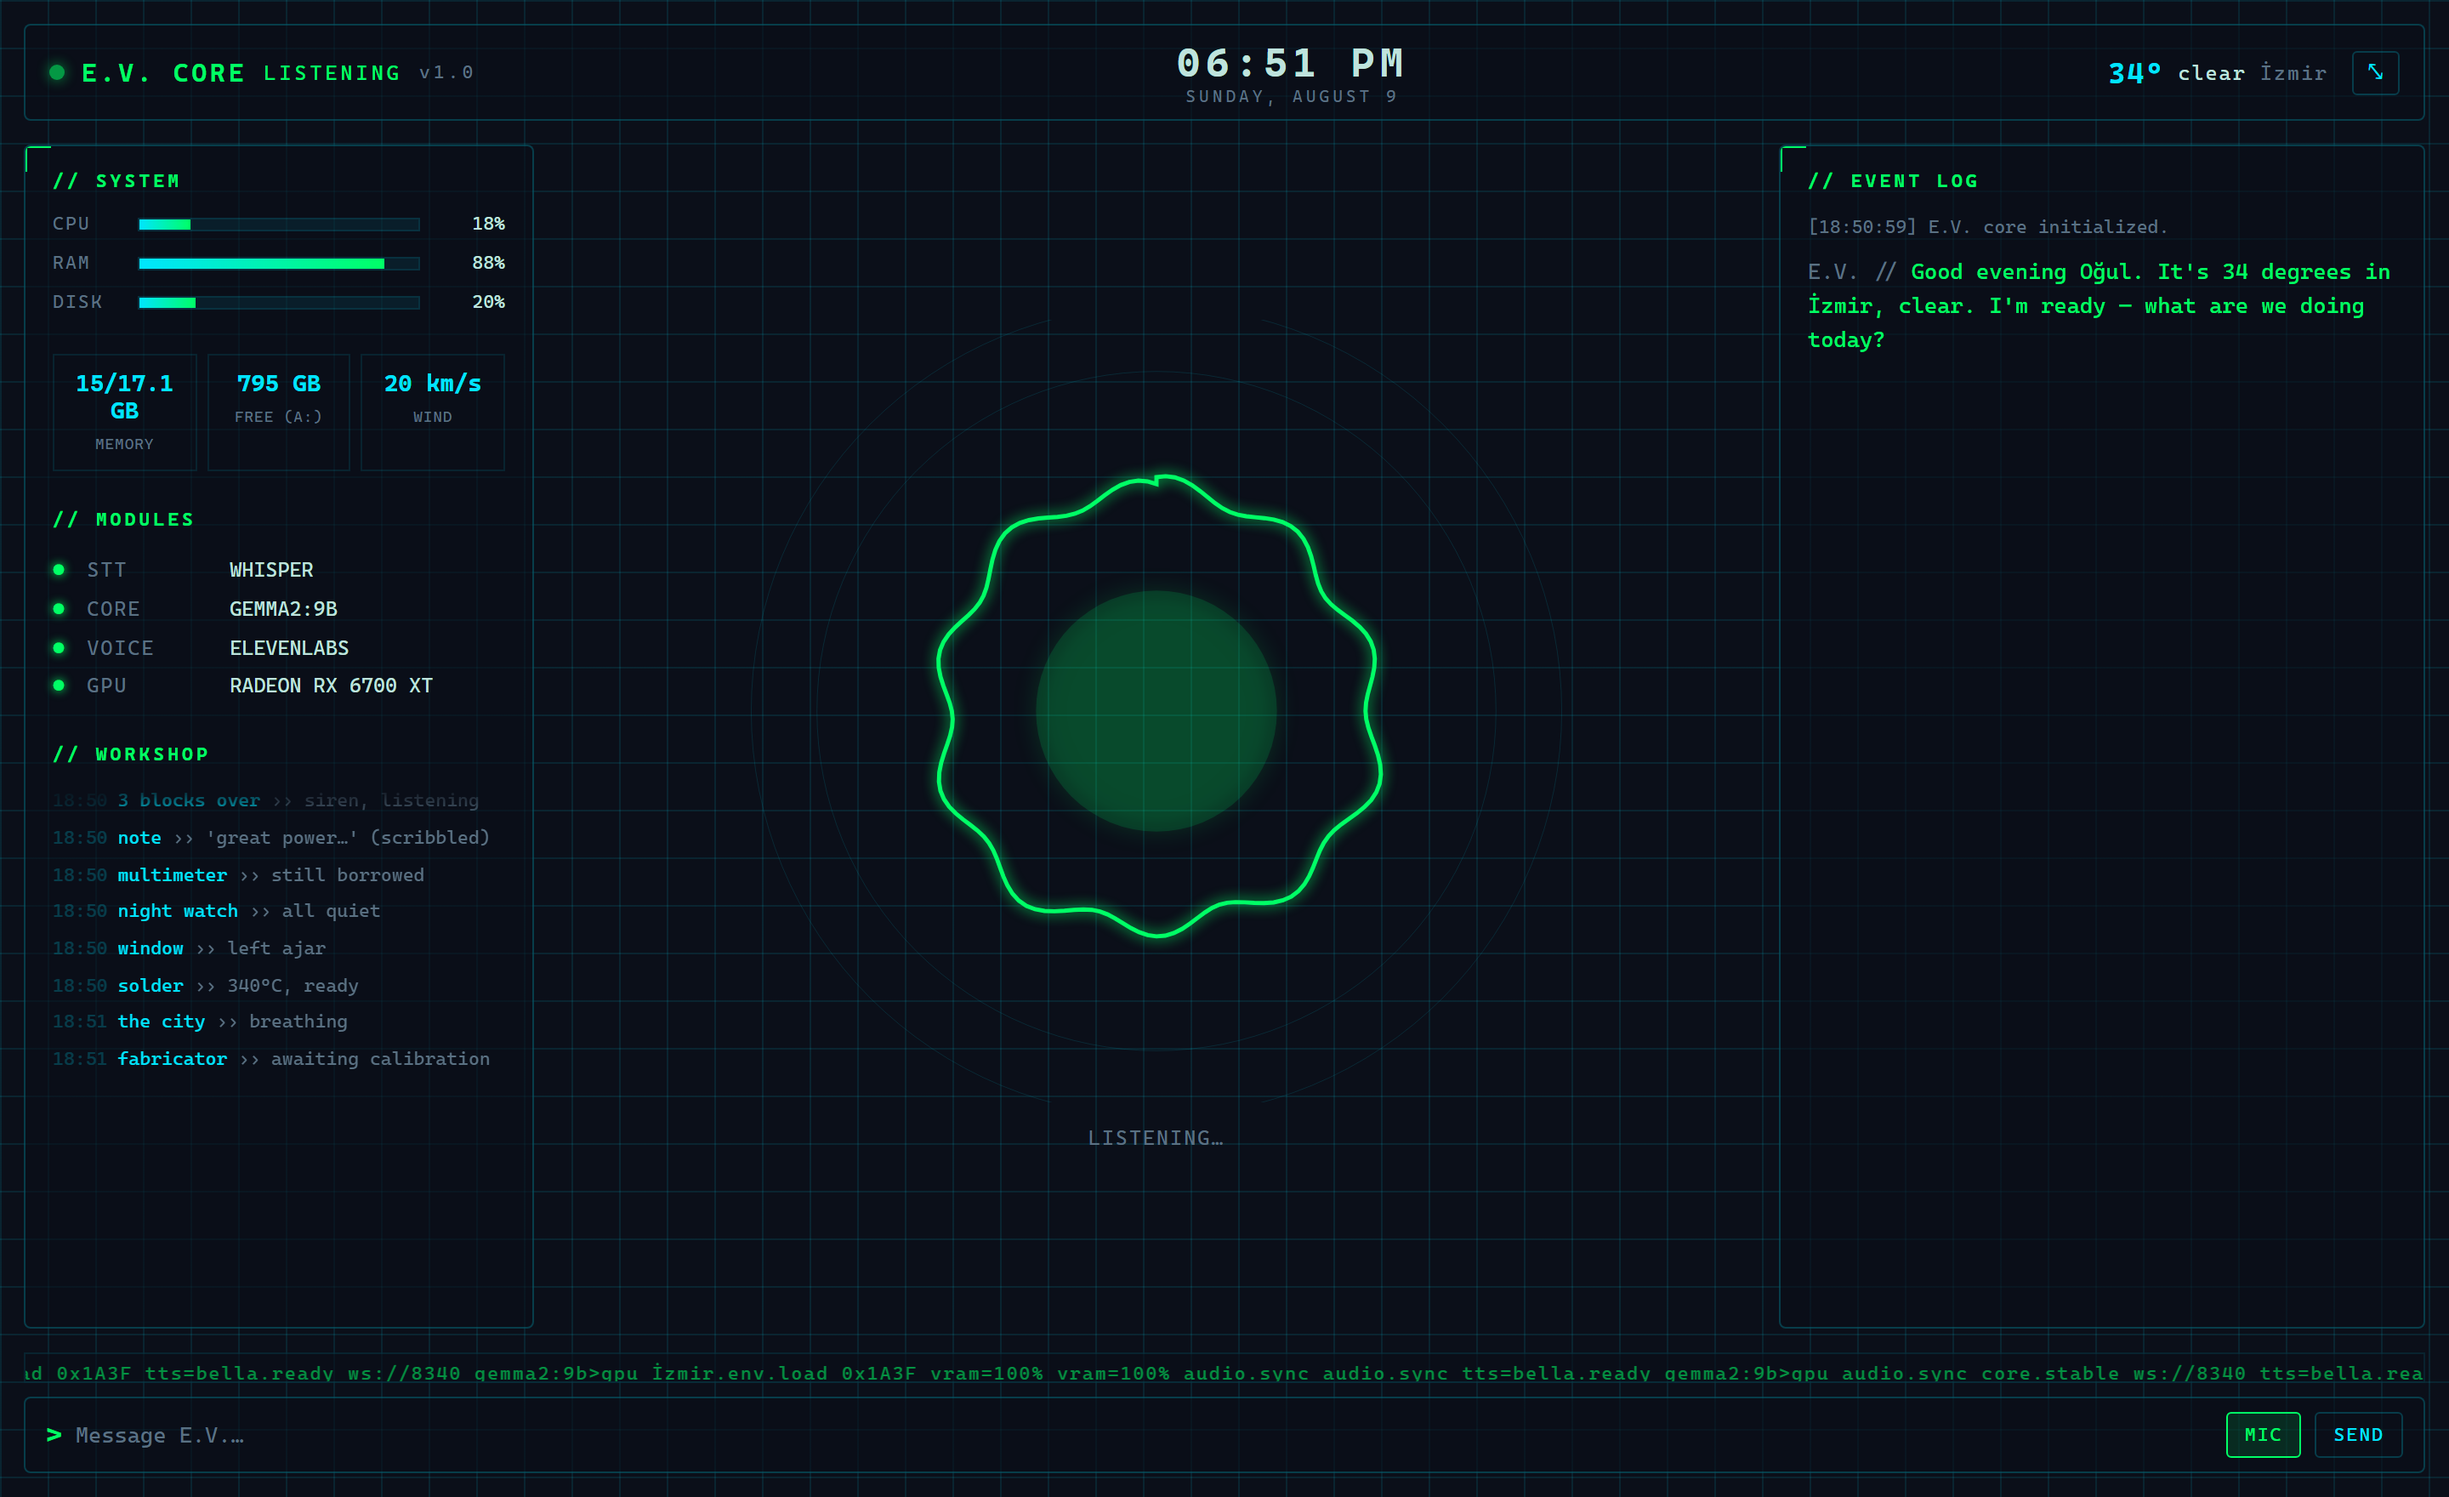
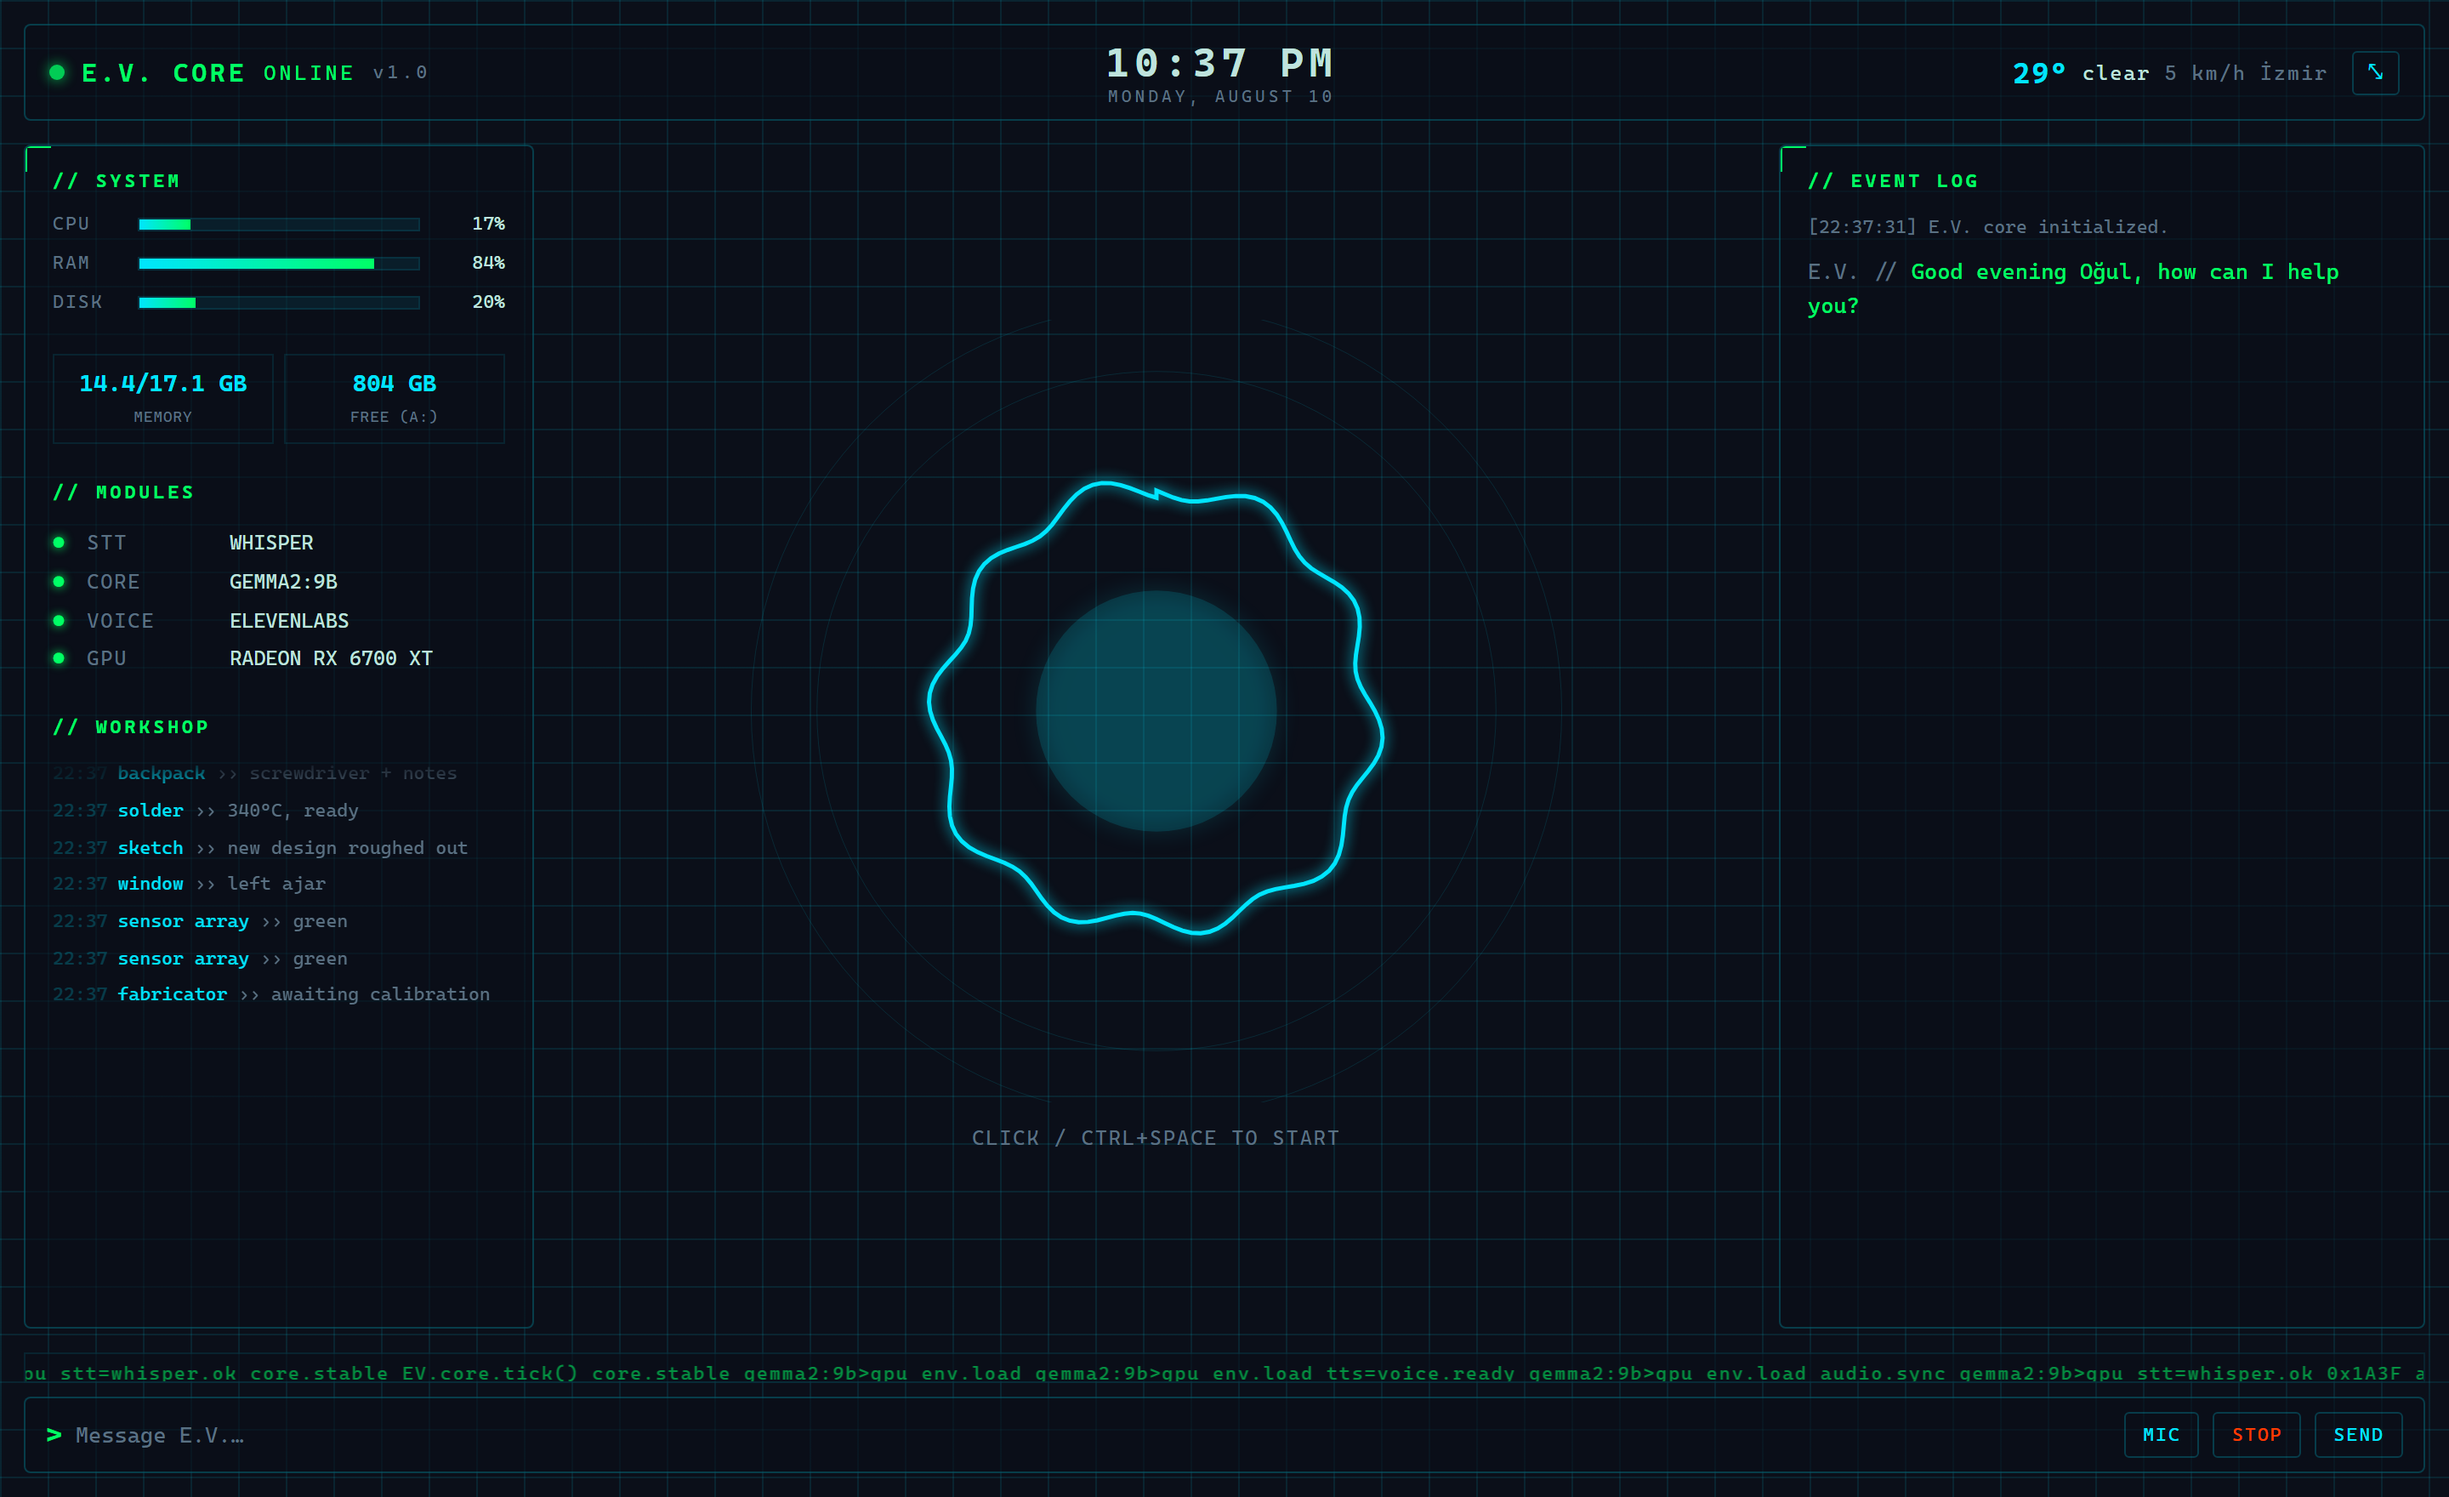
Fix English UI i18n, refresh screenshots, README TR/EN parity (v1.0.1)
Fixed
- With config language "en" (and no ?lang override), the dashboard rendered its
  chrome in Turkish: panel labels, the workshop flavor log, and the "core
  initialized" line. All three were produced at load time with the default
  language, before /stats resolved, and never re-rendered. Now:
  * applyI18n carries an English dict too and re-applies when the language
    resolves (it no longer early-returns and leaves stale Turkish),
  * the workshop flavor log re-seeds on language change,
  * the "core initialized" line is logged from pollStats once the language is
    known.

Docs
- Refreshed docs/dashboard-{en,tr}.png for the regrouped stats layout (wind in
  the weather cluster). The English shot is now fully English end to end.
- README: added the brain-benchmark and "how to use" sections to the Turkish
  half for parity; aligned the quoted gemma2:9b speed with the benchmark
  (~43 tok/s). CHANGELOG + version bumped to 1.0.1.

diff --git a/frontend/main.js b/frontend/main.js
@@ -18,20 +18,28 @@ let currentAudio = null;  // the HTMLAudio currently playing (so we can stop it)
 const _langOverride = new URLSearchParams(location.search).get('lang');
 let appLang = _langOverride === 'en' ? 'en' : 'tr';  // set from /stats; drives TTS + UI
 
-// Static UI labels. HTML is authored in English; this overlay applies when
-// appLang === 'tr' (English needs no dict since it's the default).
+// Static UI labels. The HTML is authored in English; applyI18n swaps in the
+// active language. BOTH languages carry a dict so switching is reversible — a
+// server config of "en" must undo any Turkish applied before /stats resolved.
 const I18N = {
+    en: {
+        sys: '// SYSTEM', modules: '// MODULES', workshop: '// WORKSHOP', log: '// EVENT LOG',
+        mem: 'MEMORY', core: 'CORE', voice: 'VOICE', send: 'SEND',
+        start: 'Press Ctrl+Space to start', ph: 'Message E.V.…',
+    },
     tr: {
         sys: '// SİSTEM', modules: '// MODÜLLER', workshop: '// ATÖLYE', log: '// OLAY GÜNLÜĞÜ',
-        mem: 'BELLEK', wind: 'RÜZGÂR', core: 'ÇEKİRDEK', voice: 'SES', send: 'GÖNDER',
+        mem: 'BELLEK', core: 'ÇEKİRDEK', voice: 'SES', send: 'GÖNDER',
         start: 'Başlamak için Ctrl+Space', ph: "E.V.'ye yaz…",
     },
 };
-let i18nApplied = false;
+let lastI18nLang = null;
+let _seedWorkshop = null;  // assigned by the workshop IIFE; re-seed on language change
+let _startupLogged = false;  // log "core initialized" once, after /stats resolves the language
 function applyI18n() {
     document.documentElement.lang = appLang;
-    const d = I18N[appLang];
-    if (!d) return;  // English: leave the HTML as authored
+    const d = I18N[appLang] || I18N.en;
+    lastI18nLang = appLang;
     document.querySelectorAll('[data-i18n]').forEach(el => {
         const k = el.getAttribute('data-i18n'); if (d[k]) el.textContent = d[k];
     });
@@ -430,7 +438,11 @@ async function pollStats() {
     try {
         const s = await (await fetch('/stats')).json();
         if (s.language && !_langOverride) appLang = s.language;
-        if (!i18nApplied) { applyI18n(); i18nApplied = true; }
+        if (appLang !== lastI18nLang) {  // language resolved/changed → re-render UI text
+            applyI18n();
+            if (_seedWorkshop) _seedWorkshop();  // regenerate flavor lines in the right language
+        }
+        if (!_startupLogged) { _startupLogged = true; logSys(T('started')); }
         setBar('cpu', s.cpu); setBar('ram', s.ram); setBar('disk', s.disk);
         setText('s-ram', s.ram_used_gb + '/' + s.ram_total_gb + ' GB');
         setText('s-disk', s.disk_free_gb + ' GB');
@@ -662,7 +674,8 @@ const hhmm = () => new Date().toLocaleTimeString('tr-TR', { hour: '2-digit', min
         while (box.children.length > 30) box.removeChild(box.firstChild);
         box.scrollTop = box.scrollHeight;
     }
-    for (let i = 0; i < 6; i++) append();
+    _seedWorkshop = function () { box.innerHTML = ''; for (let i = 0; i < 6; i++) append(); };
+    _seedWorkshop();
     setInterval(append, 3500);
 })();
 
@@ -726,5 +739,6 @@ setTimeout(() => { maybeThink(); setInterval(maybeThink, 45000); }, 12000);
 })();
 
 applyI18n();  // apply immediately for ?lang override; pollStats re-applies for server config
-logSys(T('started'));
+// "core initialized" is logged from pollStats once /stats resolves the language,
+// so it isn't printed in the wrong language before the server config is known.
 connect();

diff --git a/README.md b/README.md
@@ -71,7 +71,7 @@ Mic → Whisper (STT, local) → FastAPI server
 
 - **OS:** Windows 10/11 — PC control, screen capture, media keys, fullscreen auto-tray and the launcher are Windows-specific.
 - **Python** 3.10+ · **[Ollama](https://ollama.com)** (local brain) · **Node.js** (only for the Electron desktop app).
-- **GPU / VRAM:** the default `gemma2:9b` needs **~7–8 GB VRAM** (Q4) and runs fully on an **8 GB+** GPU (I'm on an RX 6700 XT 12 GB, ~37 tok/s). On a smaller card, swap in a **3B** model (`llama3.2:3b`, `qwen2.5:3b`) for **~2–4 GB**, or run **CPU-only** (slower).
+- **GPU / VRAM:** the default `gemma2:9b` needs **~7–8 GB VRAM** (Q4) and runs fully on an **8 GB+** GPU (I'm on an RX 6700 XT 12 GB, ~43 tok/s). On a smaller card, swap in a **3B** model (`llama3.2:3b`, `qwen2.5:3b`) for **~2–4 GB**, or run **CPU-only** (slower).
 - **STT & TTS add no VRAM:** Whisper runs on the **CPU**; voice is ElevenLabs/browser (not local).
 - **RAM:** 16 GB is comfortable.
 - **Free by default** — no API keys needed (Ollama + Whisper + browser voice). Claude for screen vision and ElevenLabs for a nicer voice are optional.
@@ -222,6 +222,27 @@ E.V., tamamen **kendi bilgisayarında** çalışan, gizliliğe önem veren bir s
 - Whisper **CPU'da** çalışır, ses ElevenLabs/tarayıcı — yani **ses için yerel VRAM gerekmez**.
 - **Varsayılanda ücretsiz** — anahtar gerekmez.
 
+## 🧪 Beyin karşılaştırması
+
+Deterministik router açık komutları hallettiği için LLM'in işi dardır: sohbet etmek ve bir istek gerçekten gerektirdiğinde `[ACTION:...]` etiketi üretmek. `eval/` tam olarak bunu ölçer — **action-tag doğruluğu**: router'ı atlayan 22 istemlik bir sette (SEARCH / NEWS / SCREEN istekleri + etiketsiz kalması gereken sıradan sohbet) model doğru etiketi (ya da doğru şekilde hiçbirini) ne sıklıkla üretiyor? `temperature 0` ile çalışır, yani skor tekrar-üretilebilir.
+
+| Model | Action-tag doğruluğu | Üretim | ~VRAM (Q4) |
+|---|---|---|---|
+| `gemma2:9b` (varsayılan) | %68 | ~43 tok/s | ~7–8 GB |
+| `aya-expanse:8b` | %59 | ~50 tok/s | ~5–6 GB |
+
+*RX 6700 XT (12 GB), Türkçe istemlerle ölçüldü. Doğruluk, araç-kullanım güvenilirliğidir — genel sohbet kalitesi değil. `gemma2:9b` varsayılan çünkü bu ayak izinde önde çıktı.*
+
+**Sayılarıma güvenme — kendi kartını ve modelini ölç:**
+
+```bash
+# config.json'da "ollama_model" ayarla, sonra repo kökünden:
+python eval/run_eval.py
+
+# ...ya da config'e dokunmadan birini dene:
+EV_EVAL_MODEL=qwen2.5:7b python eval/run_eval.py
+```
+
 ## 🚀 Kurulum
 
 ```bash
@@ -236,6 +257,17 @@ npm install && npm start
 
 > `config.json` içinde `user_name` alanına **kendi adını** yaz — E.V. seni bu isimle selamlar. `language`'ı `"tr"` yap.
 > Daha iyi ses için [elevenlabs.io](https://elevenlabs.io); Claude beyni için [console.anthropic.com](https://console.anthropic.com).
+
+## 🎮 Nasıl kullanılır
+
+1. Uygulamayı aç (ya da `http://localhost:8340`).
+2. Dinlemeyi başlatmak için **`Ctrl+Space`** (ya da çekirdeğe tıkla) — varsayılan sessiz.
+3. Konuş. E.V. yazıya döker, düşünür ve sesle cevap verir.
+4. Deneyebileceklerin:
+   - *"Neler yapabilirsin?"*
+   - *"Hesap makinesini aç."* · *"Chrome'u kapat."* (onay ister)
+   - *"Sesi aç."* · *"Sonraki şarkı."* · *"Ekranı kilitle."* (onay ister)
+   - *"Kahvemi sade içtiğimi hatırla."* → sonra: *"Kahvemi nasıl içerim?"*
 
 ## 🙏 Teşekkür
 

diff --git a/CHANGELOG.md b/CHANGELOG.md
@@ -4,6 +4,22 @@ Notable changes to E.V. The format loosely follows
 [Keep a Changelog](https://keepachangelog.com/); versions follow
 [SemVer](https://semver.org/).
 
+## [1.0.1] — 2026-08-10
+
+### Fixed
+- English UI: with `language: "en"` in config, the dashboard chrome (panel
+  labels, the workshop flavor log, and the "core initialized" line) rendered in
+  Turkish unless `?lang=en` was passed in the URL. The default language was
+  applied before `/stats` resolved and never re-rendered. All language-dependent
+  text now re-renders once the server language is known.
+
+### Docs
+- Refreshed the dashboard screenshots for the regrouped stats layout (wind moved
+  to the weather cluster).
+- README: added the brain-benchmark and "how to use" sections to the Turkish
+  half for parity with English; aligned the quoted `gemma2:9b` speed with the
+  benchmark (~43 tok/s).
+
 ## [1.0.0] — 2026-08-10
 
 First stable, tagged release. E.V. is a Windows-only, local-first voice
